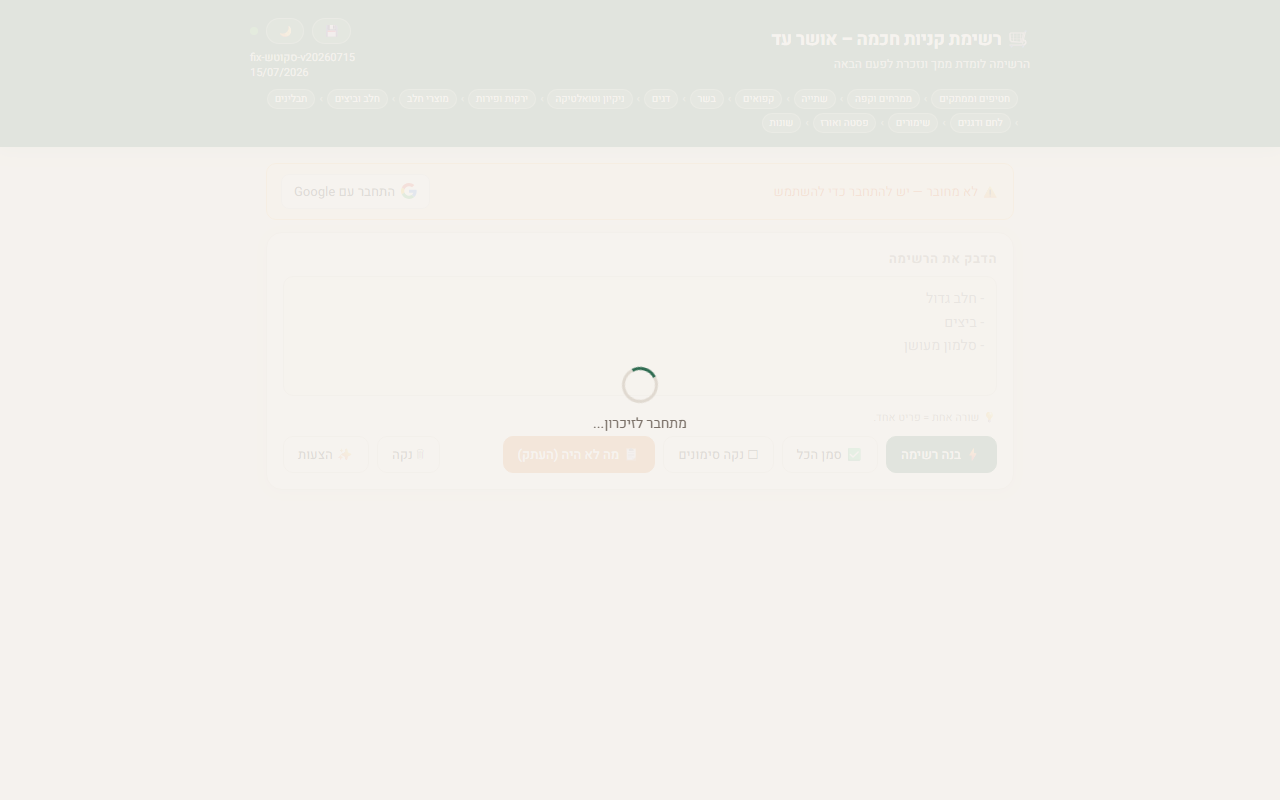
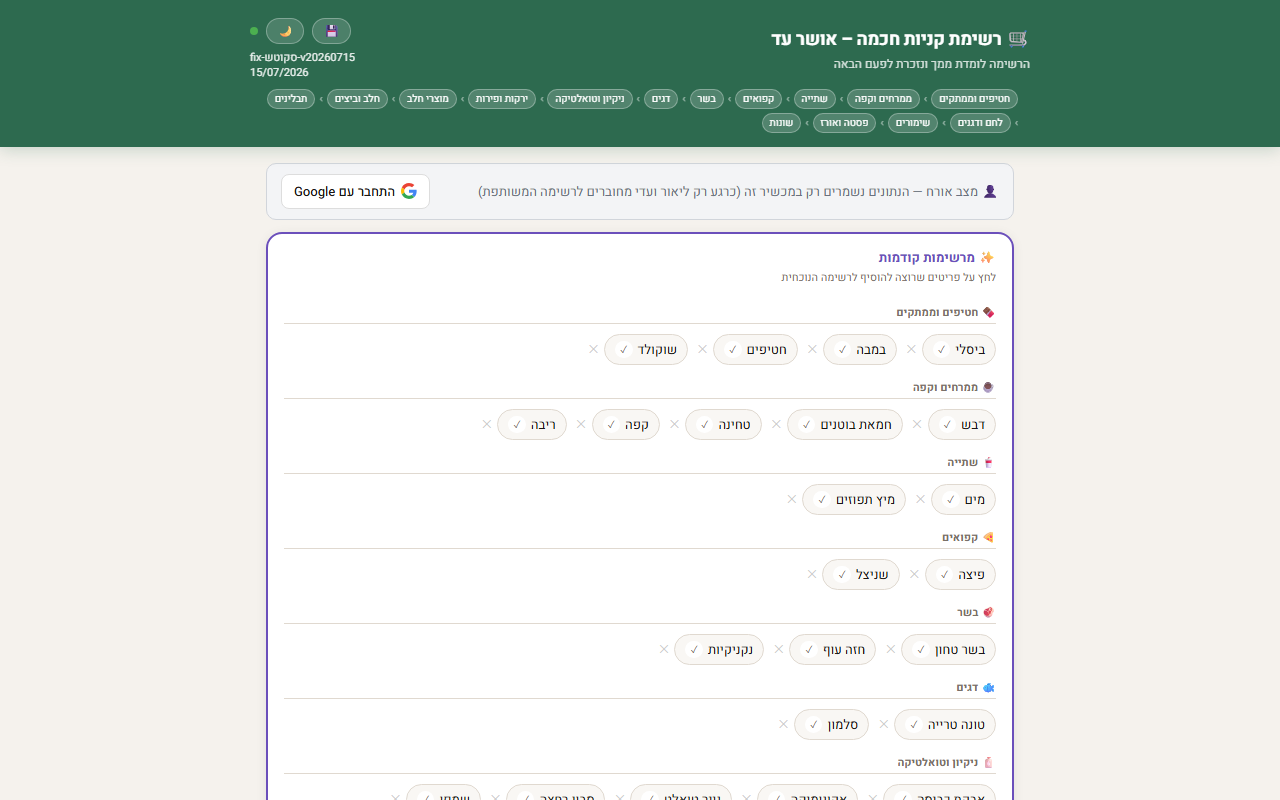
Fix low-content preview screenshots (osherad, home-dashboard)

diff --git a/index.html b/index.html
@@ -137,7 +137,7 @@
     width: 100%;
     height: 100%;
     object-fit: cover;
-    object-position: top center;
+    object-position: center 30%;
   }
   .card .title { margin-top: 4px; }
   .card .title {
